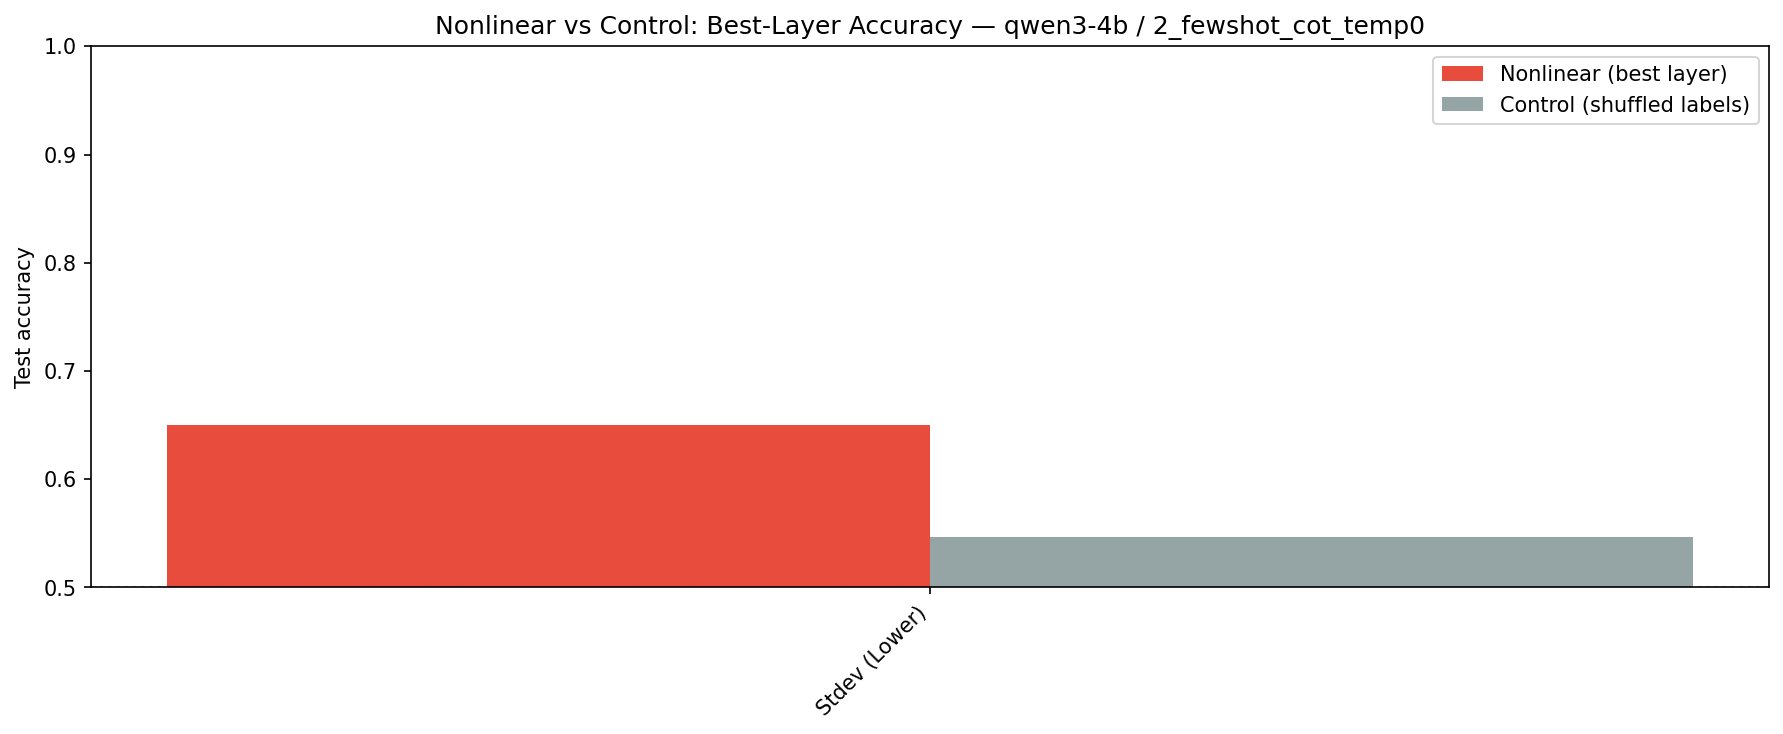
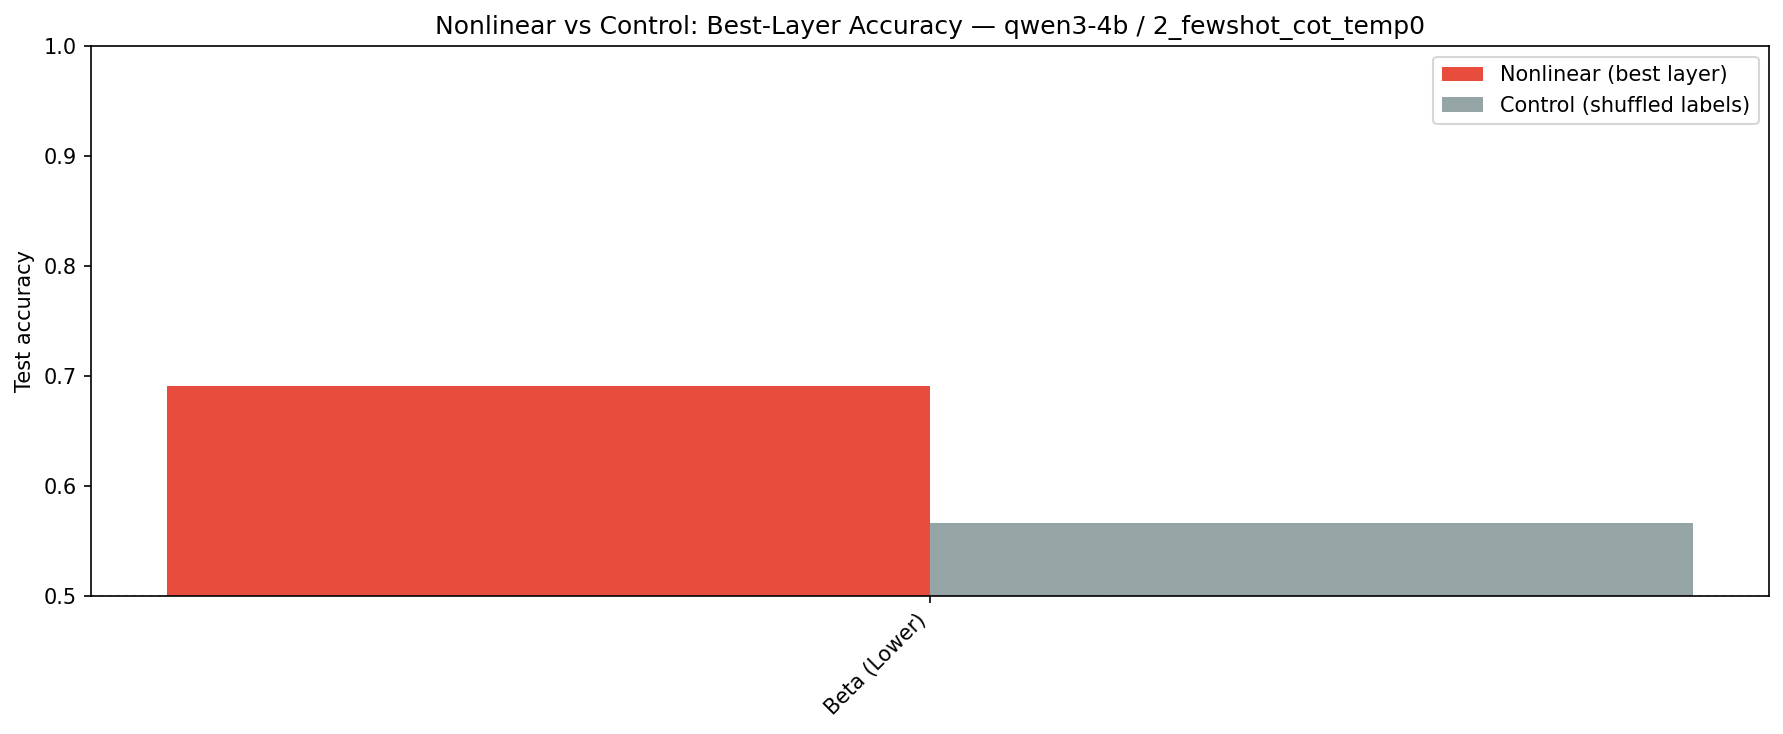
non linear hp tuned

diff --git a/llm_eval_mutual_funds/nonlinear_probing/run_linear_and_nonlinear.py b/llm_eval_mutual_funds/nonlinear_probing/run_linear_and_nonlinear.py
@@ -91,6 +91,7 @@ def main():
     feature_raw_values = data.get("feature_raw_values")
 
     linear_experiment = None
+    linear_pickle = output_dir / f"probe_{args.model}_{args.condition}.pkl"
     if not SKIP_LINEAR_PROBING:
         # ---------- Linear probes: always ALL layers (unaffected by nonlinear layer config) ----------
         probe_mod.print_banner("Linear probes (all layers)")
@@ -104,14 +105,21 @@ def main():
             output_dir=output_dir,
             logger=logger,
         )
-        linear_pickle = output_dir / f"probe_{args.model}_{args.condition}.pkl"
         linear_experiment.save(linear_pickle)
         probe_mod.export_results_to_csv(linear_experiment, output_dir)
         probe_mod.export_config(linear_experiment, output_dir)
     else:
         logger.info("Skipping linear probing (SKIP_LINEAR_PROBING=True in nlp_config.py)")
+        if linear_pickle.exists():
+            try:
+                linear_experiment = probe_mod.ProbeExperiment.load(linear_pickle)
+                logger.info(f"Loaded existing linear results from {linear_pickle} for comparison plots")
+            except Exception as e:
+                logger.warning(f"Could not load linear results from {linear_pickle}: {e}")
+        else:
+            logger.info(f"No existing linear results at {linear_pickle}; comparison plots will omit linear")
 
-    # ---------- Nonlinear probes + control (shuffled labels): layers from nlp_config ----------
+    # ---------- Nonlinear probes + control (Scrambled Hierarchy or shuffled): layers from nlp_config ----------
     nonlinear_mod.print_banner("Nonlinear probes (layers from nlp_config) + control tasks")
     nonlinear_experiment, control_experiment = nonlinear_mod.run_nonlinear_probing_experiment(
         activations=activations,

diff --git a/llm_eval_mutual_funds/prompts.py b/llm_eval_mutual_funds/prompts.py
@@ -12,14 +12,6 @@ PROMPT_DIR = PROJECT_ROOT / "prompts"
 ZERO_SHOT_TEMPLATE = (PROMPT_DIR / "zero_shot_prompt_template.txt").read_text(encoding="utf-8")
 SINGLE_SHOT_TEMPLATE = (PROMPT_DIR / "single_shot_prompt_template.txt").read_text(encoding="utf-8")
 
-def _distance_to_market(beta_val) -> str:
-    """Format |beta - 1| for prompt; helps linear probe for 'closer to 1'."""
-    try:
-        b = float(beta_val)
-        return f"{abs(b - 1.0):.3f}"
-    except (TypeError, ValueError):
-        return "NA"
-
 def _build_values(row) -> dict:
     """
     Map dataset fields to prompt template placeholders.
@@ -33,7 +25,6 @@ def _build_values(row) -> dict:
         "std_dev_1": clean_str(row["Standard Deviation_1"]),
         "return_3y_1": clean_str(row["3 Yr_1"]),
         "beta_1": clean_str(row["Beta_1"]),
-        "distance_to_1_1": _distance_to_market(row["Beta_1"]),
         "manager_tenure_1": clean_str(row["Manager Tenure_1"]),
         "inception_date_1": clean_str(row["Inception Date_1"]),
         "assets_millions_1": clean_str(row["Assets (Millions)_1"]),
@@ -45,7 +36,6 @@ def _build_values(row) -> dict:
         "std_dev_2": clean_str(row["Standard Deviation_2"]),
         "return_3y_2": clean_str(row["3 Yr_2"]),
         "beta_2": clean_str(row["Beta_2"]),
-        "distance_to_1_2": _distance_to_market(row["Beta_2"]),
         "manager_tenure_2": clean_str(row["Manager Tenure_2"]),
         "inception_date_2": clean_str(row["Inception Date_2"]),
         "assets_millions_2": clean_str(row["Assets (Millions)_2"]),

diff --git a/llm_eval_mutual_funds/nonlinear_probing/nlp_config.py b/llm_eval_mutual_funds/nonlinear_probing/nlp_config.py
@@ -17,16 +17,16 @@ SKIP_LINEAR_PROBING = True
 # A list of feature names = probe only those features, e.g. ["beta_f1_lower", "volatility_f1_lower"].
 # CLI --features overrides this when provided.
 # NONLINEAR_PROBE_FEATURES = ['beta_f1_lower', 'stdev_f1_lower', 'medalist_f1_higher', 'turnover_f1_lower', 'inception_f1_older', 'assets_f1_higher', 'tenure_f1_longer']  # Set to e.g. ["beta_f1_lower", "volatility_f1_lower"] to probe a subset
-NONLINEAR_PROBE_FEATURES = ['stdev_f1_lower']  # Set to e.g. ["beta_f1_lower", "volatility_f1_lower"] to probe a subset
+NONLINEAR_PROBE_FEATURES = ['beta_f1_lower']  # Set to e.g. ["beta_f1_lower", "volatility_f1_lower"] to probe a subset
 
 # Layers to run nonlinear (MLP) probes on. Saves time vs running on all layers.
 # None = all layers; or a list of layer indices, e.g. [0, 5, 10, 15, 20, 25]
 # This does NOT affect linear probes (they always run on every layer).
-NONLINEAR_PROBE_LAYERS = [21]  # Set to e.g. [0, 5, 10, 15, 20, 25] to probe a subset
+NONLINEAR_PROBE_LAYERS = None  # Set to e.g. [0, 5, 10, 15, 20, 25] to probe a subset
 
 # MLP architecture: hidden layer sizes (input is d_model, output is 1)
-NONLINEAR_PROBE_HIDDEN = (256, 128, 62, 32)
-NONLINEAR_PROBE_DROPOUT = 0.0
+NONLINEAR_PROBE_HIDDEN = (32,)
+NONLINEAR_PROBE_DROPOUT = 0.2
 NONLINEAR_PROBE_MAX_EPOCHS = 300
 NONLINEAR_PROBE_EARLY_STOPPING_PATIENCE = 25
 NONLINEAR_PROBE_RANDOM_STATE = 42

diff --git a/llm_eval_mutual_funds/linear_probing/lp_utils.py b/llm_eval_mutual_funds/linear_probing/lp_utils.py
@@ -104,16 +104,7 @@ def create_feature_labels(df: pd.DataFrame) -> pd.DataFrame:
     # Beta
     b_1 = df["Beta_1"].apply(safe_float)
     b_2 = df["Beta_2"].apply(safe_float)
-    # Linear comparison: fund 1 beta lower than fund 2 (easy for linear probe)
     labels["beta_f1_lower"] = [compare(a, b, a < b) for a, b in zip(b_1, b_2)]
-    # Nonlinear: fund 1 beta closer to 1 (kept for optional use)
-    beta_closer = []
-    for a, b in zip(b_1, b_2):
-        if pd.isna(a) or pd.isna(b):
-            beta_closer.append(np.nan)
-        else:
-            beta_closer.append(1 if abs(a - 1.0) < abs(b - 1.0) else 0)
-    labels["beta_f1_closer_to_1"] = beta_closer
 
     # Manager tenure (longer is better)
     t_1 = df["Manager Tenure_1"].apply(safe_years)
@@ -235,7 +226,6 @@ def create_feature_raw_values(df: pd.DataFrame) -> Dict[str, tuple]:
     b_1 = np.array(df["Beta_1"].apply(safe_float))
     b_2 = np.array(df["Beta_2"].apply(safe_float))
     out["beta_f1_lower"] = (b_1, b_2)
-    out["beta_f1_closer_to_1"] = (b_1, b_2)
 
     t_1 = np.array(df["Manager Tenure_1"].apply(safe_years))
     t_2 = np.array(df["Manager Tenure_2"].apply(safe_years))

diff --git a/llm_eval_mutual_funds/nonlinear_probing/nonlinear_probe.py b/llm_eval_mutual_funds/nonlinear_probing/nonlinear_probe.py
@@ -148,12 +148,12 @@ def train_and_evaluate_nonlinear_probe(
         warnings.filterwarnings("ignore", category=UserWarning)
         clf = MLPClassifier(
             hidden_layer_sizes=hidden_layer_sizes,
-            activation="relu",
+            activation="logistic",
             solver="adam",
             alpha=1e-4,
-            batch_size="auto",
+            batch_size=200,
             learning_rate="adaptive",
-            learning_rate_init=1e-4,
+            learning_rate_init=5e-4,
             max_iter=max_epochs,
             shuffle=True,
             random_state=random_state,

diff --git a/llm_eval_mutual_funds/linear_probing/lp_config.py b/llm_eval_mutual_funds/linear_probing/lp_config.py
@@ -81,7 +81,7 @@ PROBE_FEATURES = [
     "sharpe_f1_higher",
     "stdev_f1_lower",
     "return_3yr_f1_higher",
-    "beta_f1_lower",  # B1 < B2 (linear); use beta_f1_closer_to_1 for "closer to 1"
+    "beta_f1_lower",
     "tenure_f1_longer",
     "inception_f1_older",
     "assets_f1_higher",
